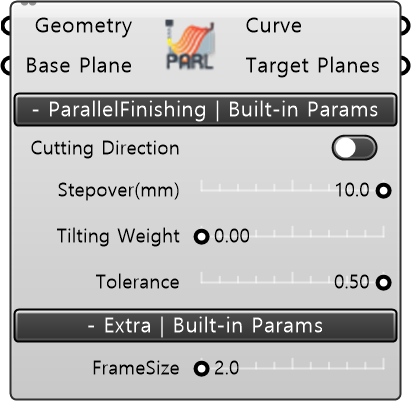
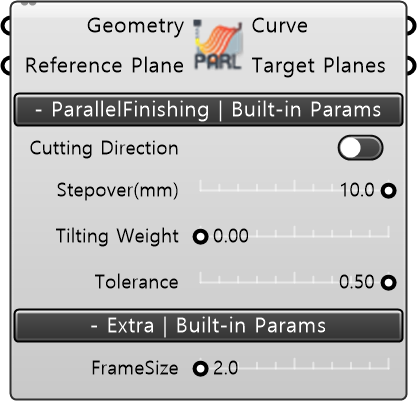
0328 SHL | updated post

diff --git a/_posts/2025-01-03-ToolPath-Drawing.md b/_posts/2025-01-03-ToolPath-Drawing.md
@@ -39,7 +39,7 @@ tags:
 # Input
 
 * **Curves[Curve/List]** : 작성하고자 하는 curve를 선택한다.
-* **Base Plane [Plane]** : 드로잉하는 평면의 기준 Plane을 입력한다. Target Plane 은 Base Plane과 같은 xy방향의 평면으로 생성된다.
+* **Reference Plane [Plane]** : 드로잉하는 평면의 기준 Plane을 입력한다. Target Plane 은 Base Plane과 같은 xy방향의 평면으로 생성된다.
 * **Geometry [Brep/Mesh/Optional]**: 드로잉할 커브의 Geometry를 입력한다. Mesh 또는 Brep을 입력해야만 한다. 이때, Curve는 반드시 Geometry 위에 있어야 한다.
 
 ## Built in param | Drawing

diff --git a/_posts/2024-12-21-DataType-TriggIOs.md b/_posts/2024-12-21-DataType-TriggIOs.md
@@ -33,8 +33,9 @@ tags:
 # Description
 
 * TriggIOs 컴포넌트는 고유의 IOData 값을 활용하여 사용자가 정의한 값으로 치환하여 내보내는 컴포넌트이다.
+triggios는 로봇의 이동 경로상 고정된 위치에서 디지털 출력 신호, 디지털 출력 신호 그룹 또는 아날로그 출력 신호를 설정하기 위한 조건과 동작을 정의하는 데 사용된다.
 
-<p align="center">  <img src="/assets/images/TriggIOs.png" align="center" width="32%"></p>
+<p align="center">  <img src="/assets/images/TriggIOs.png" align="center" width="27%"></p>
 
 # Input
 

diff --git a/en/_posts/2025-01-03-ToolPath-ObjRoughing.md b/en/_posts/2025-01-03-ToolPath-ObjRoughing.md
@@ -41,7 +41,7 @@ tags:
 # Input
 
 * **Geometry**: Input the volume to be roughed out as a solid (Brep) or mesh (Mesh) type.
-* **Base Plane** : Input the reference plane that determines the end mill entry direction (Contour direction), target orientation, starting position of the toolpath, collision avoidance height for machining surfaces, etc.
+* **Reference Plane** : Input the reference plane that determines the end mill entry direction (Contour direction), target orientation, starting position of the toolpath, collision avoidance height for machining surfaces, etc.
 
 ## Built-in Param | Roughing
 

diff --git a/en/_posts/2025-01-03-ToolPath-Drawing.md b/en/_posts/2025-01-03-ToolPath-Drawing.md
@@ -41,7 +41,7 @@ tags:
 # Input
 
 * **Curves[Curve / List]** : Select the curves to be drawn.
-* **Base Plane [Plane]** : Input the reference plane for drawing. The Target Plane is generated as a plane in the same xy direction as the Base Plane.
+* **Reference Plane [Plane]** : Input the reference plane for drawing. The Target Plane is generated as a plane in the same xy direction as the Base Plane.
 * **Geometry [Brep/Mesh / Optional]**: Input the geometry for the curves to be drawn on. Either a Mesh or Brep must be provided. The curves must be on the Geometry.
 
 ## Built in param | Drawing

diff --git a/_posts/2025-01-03-ToolPath-ObjRoughing.md b/_posts/2025-01-03-ToolPath-ObjRoughing.md
@@ -39,7 +39,7 @@ tags:
 # Input
 
 * **Geometry**: Roughing을 통해 깎을 볼륨을 솔리드(Brep) 또는 메시(Mesh) 타입으로 입력한다.
-* **Base Plane** : 엔드밀 진입 방향(= Contour 방향), Target Orientation, Toolpath 시작 위치, 가공면 충돌 회피 높이 등등을 결정하는 기준 평면을 입력한다.
+* **Reference Plane** : 엔드밀 진입 방향(= Contour 방향), Target Orientation, Toolpath 시작 위치, 가공면 충돌 회피 높이 등등을 결정하는 기준 평면을 입력한다.
 
 
 ## Built-in Param | Basic Params

diff --git a/en/_posts/2024-12-21-DataType-TriggIOs.md b/en/_posts/2024-12-21-DataType-TriggIOs.md
@@ -35,7 +35,7 @@ tags:
 * The TriggIOs component is used to replace specific IO signals with user-defined values based on its internal IOData configuration.
 triggios is used to define conditions and actions for setting a digital output signal, a group of digital output signals, or an analog output signal at a fixed position along the robot’s movement path.
 
-<p align="center">  <img src="/assets/images/TriggIOs.png" align="center" width="32%"></p>
+<p align="center">  <img src="/assets/images/TriggIOs.png" align="center" width="27%"></p>
 
 # Input
 

diff --git a/_posts/2025-01-03-ToolPath-Block-Designer.md b/_posts/2025-01-03-ToolPath-Block-Designer.md
@@ -38,7 +38,7 @@ tags:
 
 # Input
 
-* **BasePlane [Plane]** : Unit Block에 대한 기준 평면을 설정한다. 이는 추후 Gripper TCP가 Orient되는 방향을 특정하는 평면에 해당한다.  
+* **Base Plane [Plane]** : Unit Block에 대한 기준 평면을 설정한다. 이는 추후 Gripper TCP가 Orient되는 방향을 특정하는 평면에 해당한다.  
 * **Unit Block [Box]** : 사용할 Unit Block 모델링을 Box 형식으로 입력한다.
 * **Wall [Brep]** : 벽돌을 적층할 형상의 모델링을 입력한다. 
 

diff --git a/_posts/2025-01-03-ToolPath-Block-Supply.md b/_posts/2025-01-03-ToolPath-Block-Supply.md
@@ -39,7 +39,7 @@ tags:
 
 # Input
 
-* **BasePlane [Plane]** : 생성되는 Block 더미의 위치와 방향을 정의하는 기준 평면을 입력한다.
+* **Base Plane [Plane]** : 생성되는 Block 더미의 위치와 방향을 정의하는 기준 평면을 입력한다.
 * **Unit Block [Box]** : 사용할 Unit Block 모델링을 Box 형식으로 입력한다.
 * **Spacing [Box]** : Unit Block의 BoxArray 간격을 정의하는, Array Cell을입력한다.
 * **Block Count [int]** : 사용될 Block의 총 개수를 입력한다.

diff --git a/en/_posts/2025-01-03-ToolPath-Block-Supply.md b/en/_posts/2025-01-03-ToolPath-Block-Supply.md
@@ -38,7 +38,7 @@ tags:
 
 # Input
 
-* **BasePlane [Plane]** :  Input the reference plane that defines the position and orientation of the generated block stack.
+* **Base Plane [Plane]** :  Input the reference plane that defines the position and orientation of the generated block stack.
 * **Unit Block [Box]** : Input the unit block model in the form of a box.
 * **Spacing [Box]** :Input the array cell defining the spacing of the unit block’s box array.
 * **Block Count [int]** : Input the total number of blocks to be used.

diff --git a/en/_posts/2025-01-03-ToolPath-Block-Designer.md b/en/_posts/2025-01-03-ToolPath-Block-Designer.md
@@ -38,7 +38,7 @@ tags:
 
 # Input
 
-* **BasePlane [Plane]** : Sets the reference plane for the Unit Block, which determines the orientation direction for the Gripper TCP later on. 
+* **Base Plane [Plane]** : Sets the reference plane for the Unit Block, which determines the orientation direction for the Gripper TCP later on. 
 * **Unit Block [Box]** : Inputs the Unit Block modeling to be used in Box format.
 * **Wall [Brep]** : Inputs the modeling of the shape where the bricks will be stacked.
 

diff --git a/_posts/2025-01-03-ToolPath-ParallelFinishing.md b/_posts/2025-01-03-ToolPath-ParallelFinishing.md
@@ -40,7 +40,7 @@ tags:
 # Input
 
 * **Geometry**: Mesh 또는 Surface의 Geometry parameter를 입력한다.
-* **Base Plane** : Tilting weight=0일 때, Target Orientation 기준 평면을 입력한다.
+* **Reference Plane** : Tilting weight=0일 때, Target Orientation 기준 평면을 입력한다.
 
 <p align="center"><img src="/assets/images/Parallel-768x238.png" align="center" width="80%"></p>
 

diff --git a/_posts/2025-01-03-ToolPath-SlicerShell-for-Solid.md b/_posts/2025-01-03-ToolPath-SlicerShell-for-Solid.md
@@ -39,7 +39,7 @@ tags:
 # Input
 
 * **Geometry [Geometry]** : Geometry 모델링을 입력한다.
-* **Base Plane [Plane]** : 모델링의 기준 평면을 재정의해 입력한다. 기본 값으로 World XY을 받는다.
+* **Reference Plane [Plane]** : 모델링의 기준 평면을 재정의해 입력한다. 기본 값으로 World XY을 받는다.
 
 ## Built-in Param | Slicing Params
 
